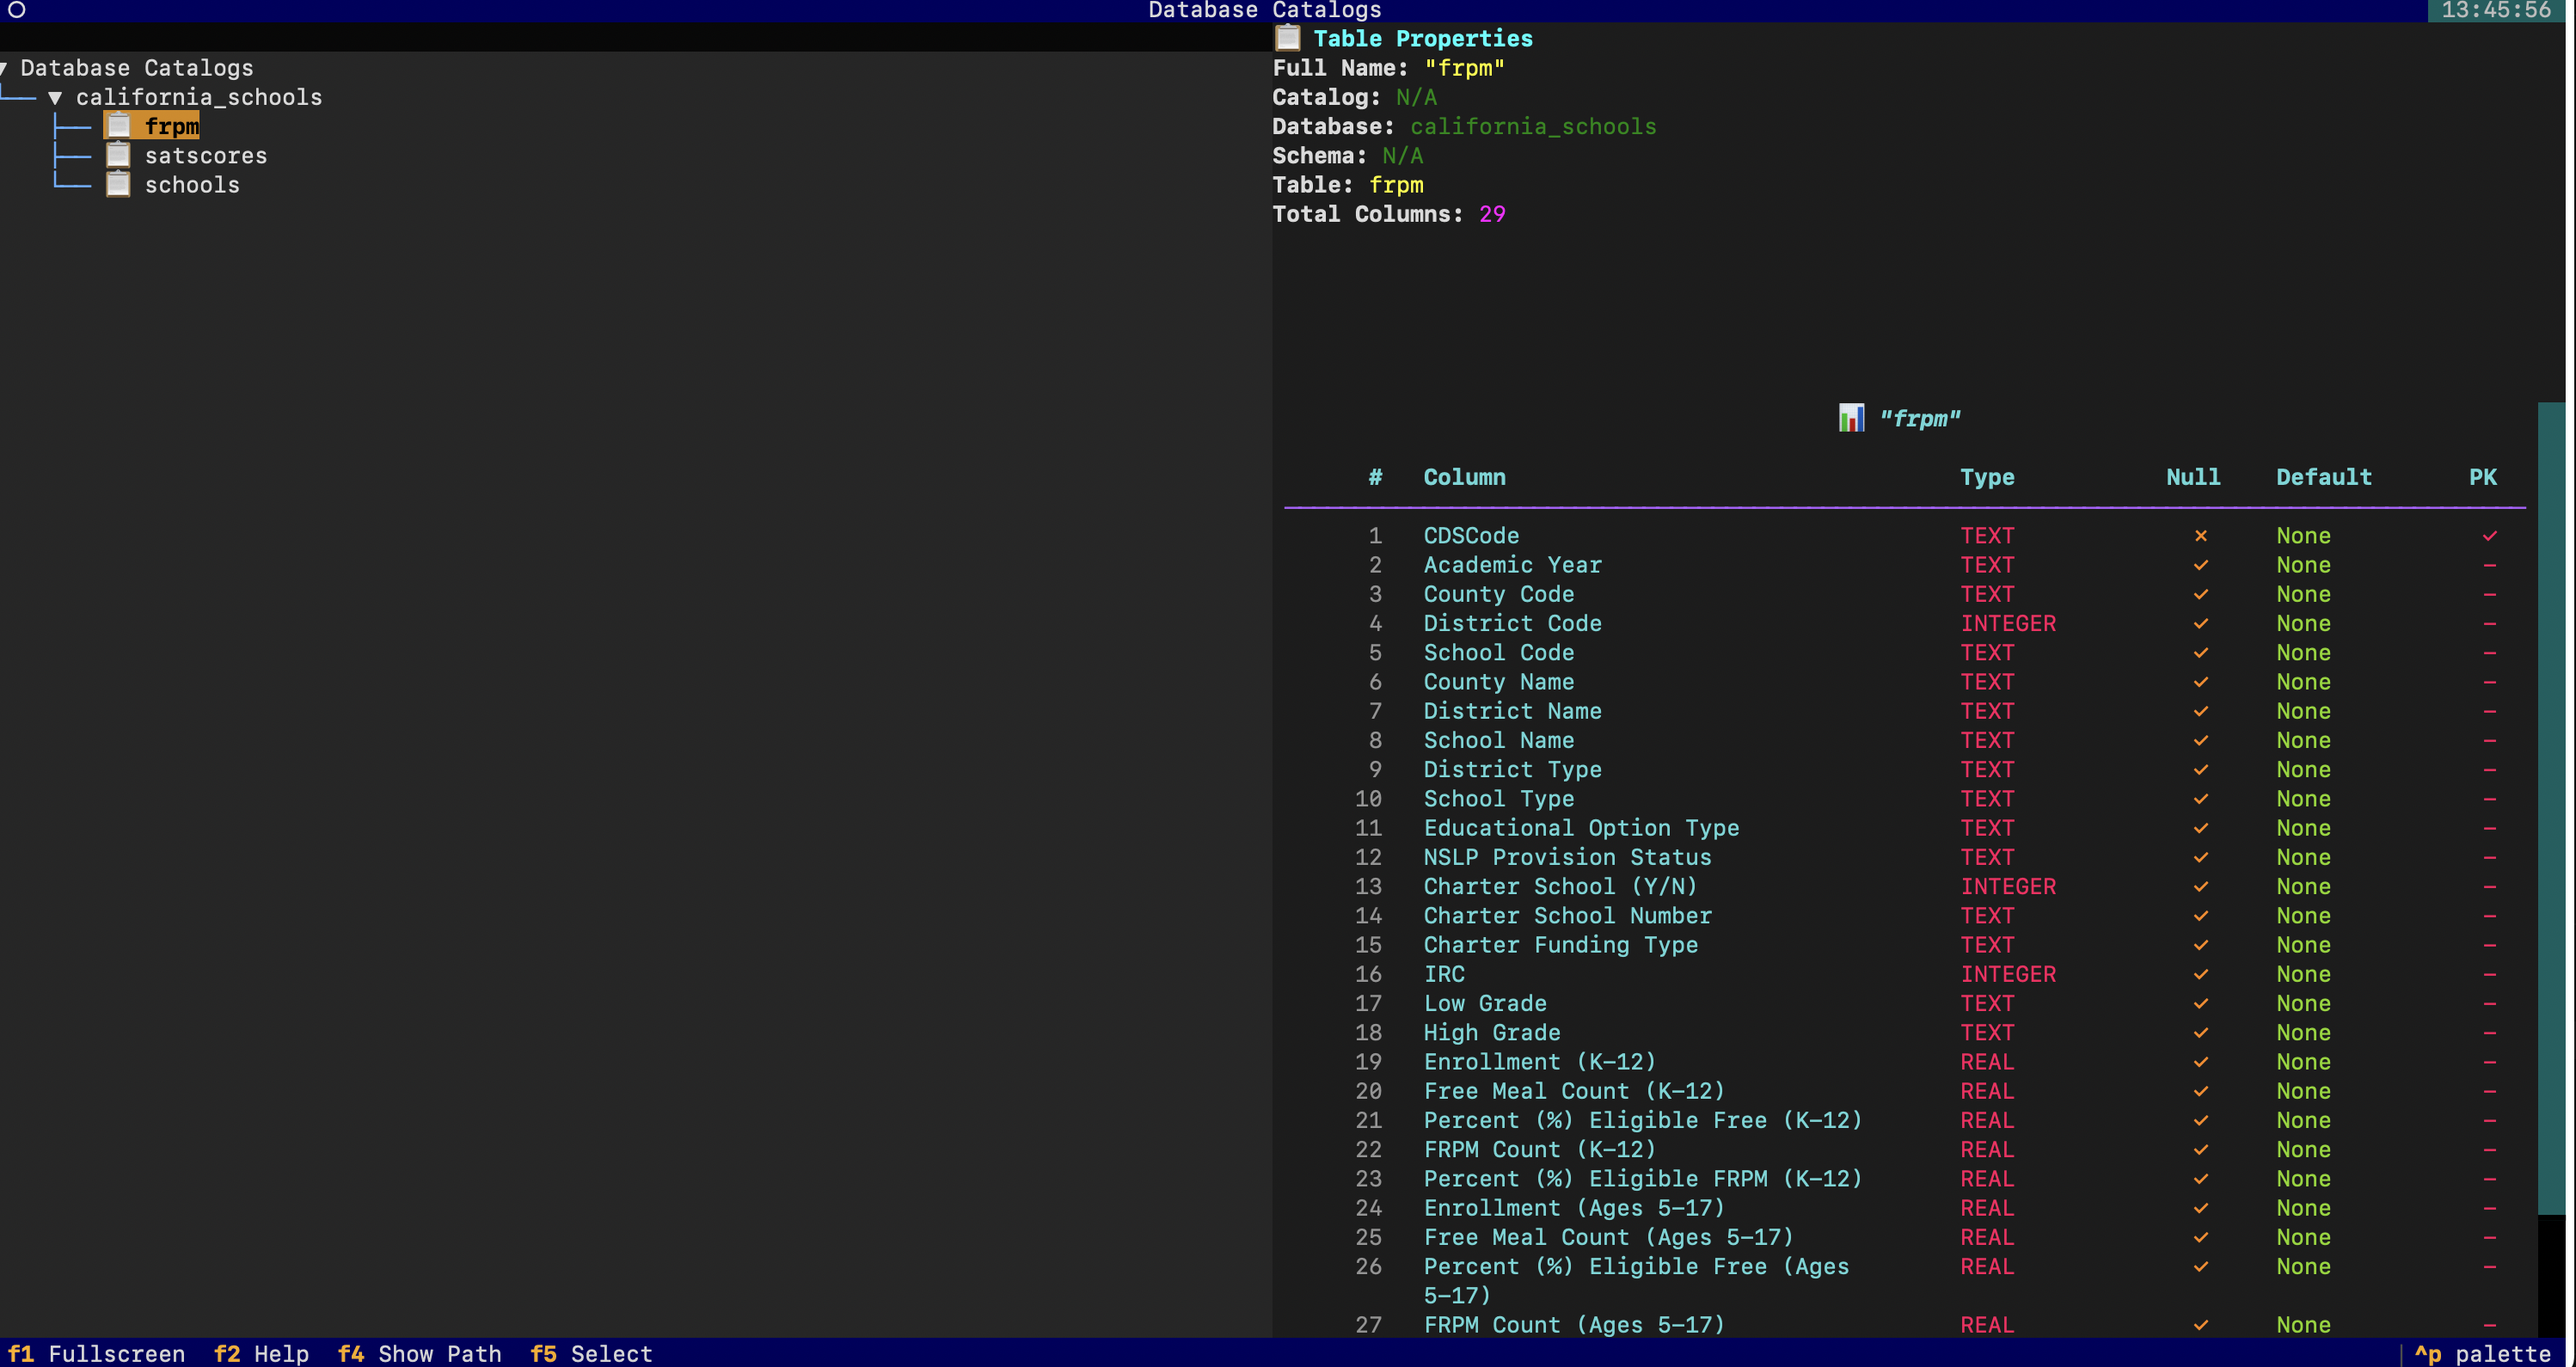
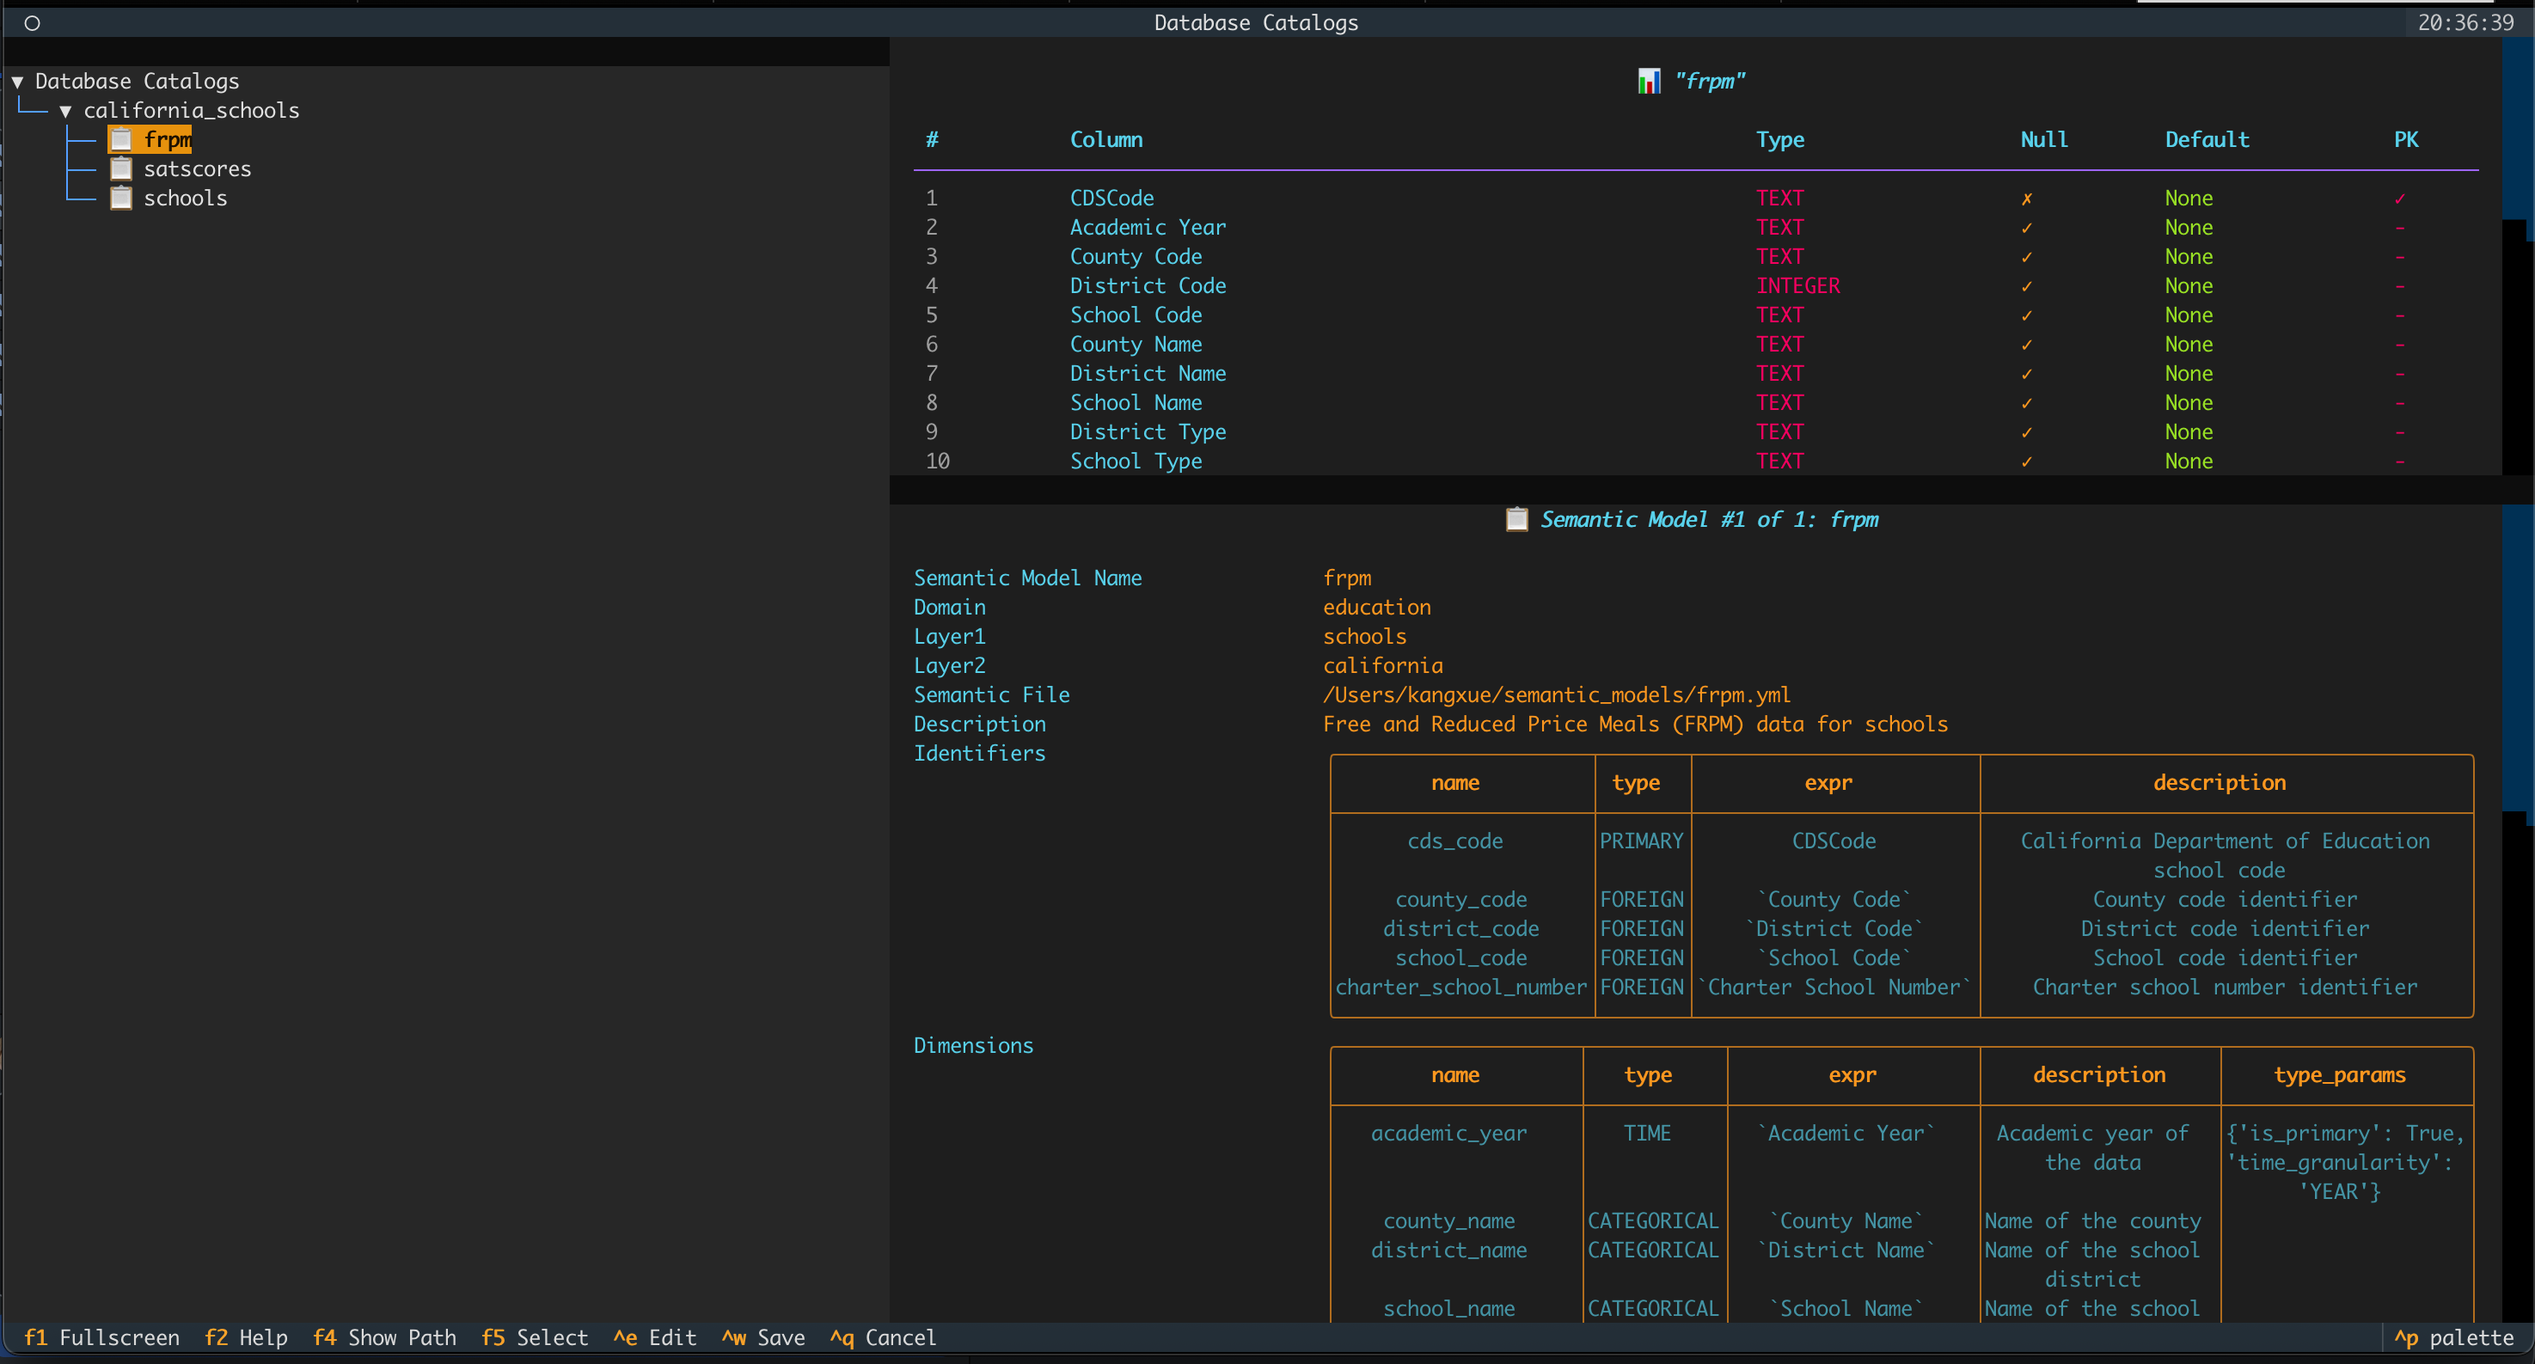
Updated documentation related to the @subject command

diff --git a/docs/cli/context_command.md b/docs/cli/context_command.md
@@ -28,6 +28,10 @@ catalog
 
 ![Catalog Screen](../assets/catalog_screen.png)
 
+When your focus is on the panel where the **semantic model** is located and modify it via `Ctrl+e`.
+
+![Catalog Screen_Edit_Semantic](../assets/catalog_screen_edit_semantic.png)
+
 ### @subject
 ```
 domain
@@ -35,21 +39,25 @@ domain
       └── layer2
           └── semantic_model
               └── metrics
+              └── historical sqls
 ```
 
-![Subject Screen](../assets/subject_screen.png)
+![Subject Screen_Metrics](../assets/subject_screen_metrics.png)
 
-### @sql
-```
-domain
-  └── layer1
-      └── layer2
-          └── sql_history / sql_snippet
-```
+![Subject Screen_Historical_SQL](../assets/subject_screen_sql.png)
 
-![SQL History Screen](../assets/sql_history_screen.png)
+#### Modify Domain layers and Name
+When your focus is on the **domain tree** on the left, you can modify it via `Ctrl+e`
 
-When you select an item, it will be injected into the current chat turn as a reference — Datus will know its metadata, lineage, and purpose when generating SQL.
+![Subject Screen_Edit_Domain](../assets/subject_screen_edit_domain.png)
+
+
+#### Modify Metrics Details
+When your focus is on the panel where the **metrics details** are located on the right, you can modify it via `Ctrl+e`.
+![Subject_Screen_Edit_Metrics](../assets/subject_screen_edit_metrics.png)
+#### Modify Historical SQL
+When your focus is on the panel on the right where the **historical SQL details** is located, you can modify it via `Ctrl+e`
+![Subject_Screen_Edit_Historical_SQL](../assets/subject_screen_edit_sql.png)
 
 For the initialization of the context tree, you can refer to the Knowledge Base documentation.
 
